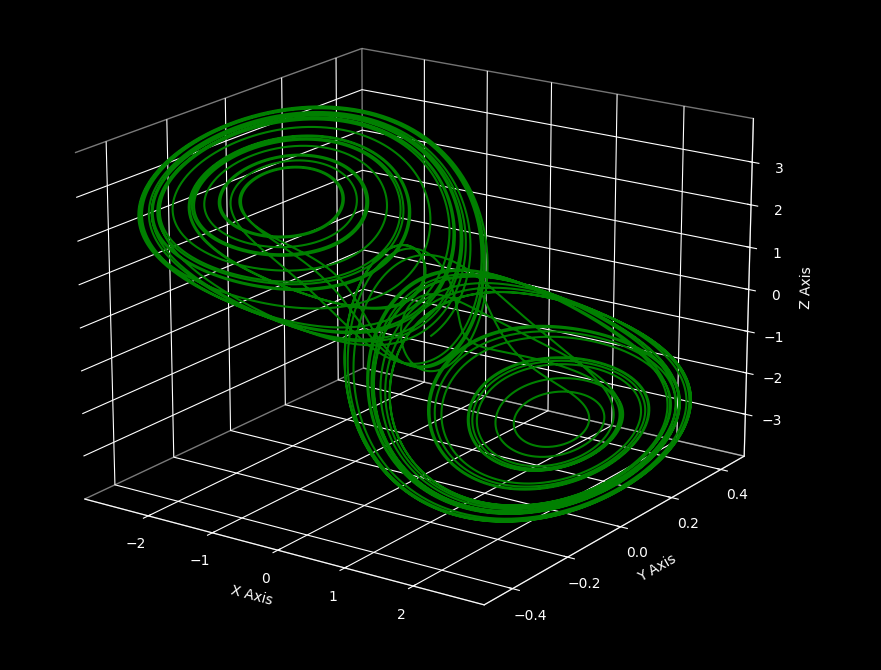
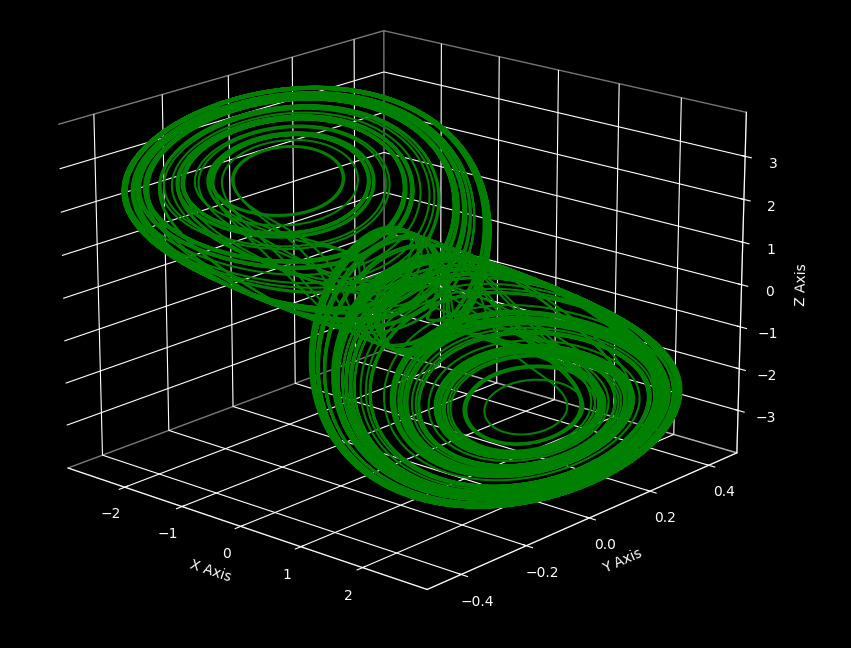
chore: van der pol oscillator

Changed region(s): [[0.0917, 0.0309, 0.9471, 0.9568], [0.2139, 0.8642, 0.3055, 0.8951]]

diff --git a/control_algorithms/src/bin/main.rs b/control_algorithms/src/bin/main.rs
@@ -9,8 +9,9 @@ use paho_mqtt as mqtt;
 use paho_mqtt::Message;
 use control_algorithms::plants::lorenz_attractor::LorenzAttractor;
 use control_algorithms::plants::pendulum::Pendulum;
+use control_algorithms::plants::van_der_pol_oscillator::VanDerPolOscillator;
 
-const simulation_type : &'static str = "3D";
+const simulation_type : &'static str = "2D";
 
 #[derive(Serialize, Deserialize, Debug)]
 pub struct Data {
@@ -27,8 +28,8 @@ fn main() {
     tok.wait().unwrap();
     println!("Mqtt Works correctly.");
 
-    // System Definition
     /*
+    // System Definition
     let mut system = AutonomousRegularizer::new(
         VoidControl::new(),
         ChuaCircuit::new(
@@ -40,9 +41,9 @@ fn main() {
             Vec3D::new(0.1, 0.2, -0.1),
             Vec3D::new(1.0, -1.0, 0.0)),
     );
+    */
 
-     */
-
+    /*
     let mut system = AutonomousRegularizer::new(
         VoidControl::new(),
         LorenzAttractor::new(
@@ -53,6 +54,8 @@ fn main() {
             Vec3D::new(0.0, 0.0, 0.0),
         )
     );
+
+     */
 
     /*
     let mut system = AutonomousRegularizer::new(
@@ -68,7 +71,16 @@ fn main() {
 
      */
 
-    let mut sim = ControlSimulation::new(system, 0.0, 100.0, 0.001);
+    let mut system = AutonomousRegularizer::new(
+        VoidControl::new(),
+        VanDerPolOscillator::new(
+            4.0,
+            Vec3D::new(0.785, 0.234, 0.0),
+            Vec3D::new(0.0, 0.0, 0.0),
+        )
+    );
+
+    let mut sim = ControlSimulation::new(system, 0.0, 50.0, 0.001);
 
     loop {
         let (x, v) = sim.step();

diff --git a/control_algorithms/src/plants/van_der_pol_oscillator.rs b/control_algorithms/src/plants/van_der_pol_oscillator.rs
@@ -1,0 +1,39 @@
+use crate::linear_algebra::vec3D::Vec3D;
+use crate::plants::Plant;
+
+pub struct VanDerPolOscillator {
+    pub mu: f64,
+    pub x: Vec3D,
+    pub v: Vec3D,
+    pub u: Vec3D,
+}
+
+impl VanDerPolOscillator {
+    pub fn new(mu: f64, x0: Vec3D, v0: Vec3D) -> Box<dyn Plant> {
+        let u0 = Vec3D::new(0.0, 0.0, 0.0);
+        Box::new( VanDerPolOscillator { mu, x: x0, v: v0, u: u0 } )
+    }
+}
+
+impl Plant for VanDerPolOscillator {
+    fn compute(&mut self, ts: f64) -> (Vec3D, Vec3D) {
+        // calculations
+        let v1 = self.mu * (self.x[1] - 0.3333 * self.x[1].powi(3) - self.x[2]);
+        let v2 = (1.0 / self.mu) * self.x[1];
+
+        // Output preparation
+        let mut out_v = Vec3D::new(v1, v2, 0.0);
+        let mut out_x = self.x + out_v * ts;
+
+        // Updating plant state
+        self.x = out_x;
+        self.v = out_v;
+
+        (out_x, out_v)
+    }
+
+    fn feed(&mut self, u: Vec3D) {
+        self.u = u;
+        //println!("Updating input u to : {}", self.u);
+    }
+}

diff --git a/render/main.py b/render/main.py
@@ -13,7 +13,7 @@ def on_message(client, userdata, message):
     if message.topic == "CTRL/out2d":
         data = json.loads(message.payload)
         x.append(data["x"]["x"])
-        y.append(data["v"]["x"])
+        y.append(data["x"]["y"])
         return
 
     if message.topic == "CTRL/out":
@@ -38,7 +38,7 @@ def on_message(client, userdata, message):
         print("plotting...")
         plt.style.use('dark_background')
         ax = plt.figure(figsize=(10,10)).add_subplot(projection='3d')
-        ax.plot3D(x, y, z, 'yellow')
+        ax.plot3D(x, y, z, 'green')
         ax.set_xlabel("X Axis")
         ax.set_ylabel("Y Axis")
         ax.set_zlabel("Z Axis")

diff --git a/control_algorithms/src/lib.rs b/control_algorithms/src/lib.rs
@@ -56,6 +56,7 @@ impl ControlSimulation {
         //println!(">>> {:.2}", self.sim_time);
         let res = self.system.step(self.step_time);
         //println!("---------------");
+        println!("{:.2}%", 100.0 * self.sim_time / self.tf);
 
         self.sim_time += self.step_time;
         res

diff --git a/control_algorithms/src/plants/mod.rs b/control_algorithms/src/plants/mod.rs
@@ -8,3 +8,4 @@ pub trait Plant {
 pub mod chua_circuit;
 pub mod lorenz_attractor;
 pub mod pendulum;
+pub mod van_der_pol_oscillator;

diff --git a/README.md b/README.md
@@ -2,6 +2,14 @@
 
 Control Systems Library to quickly simulate and visualize complex systems behavior.
 
+### Chua Circuit
 ![alt text](./images/chua_circuit.png)
 
+### Lorenz Attractor
 ![alt text](./images/lorenz_chaotic.png)
+
+### Damped Pendulum
+![alt text](./images/pendulum/unknown_019.png)
+
+### Van Der Pol Oscillator
+![alt text](./images/van_der_pol_oscillator.png)
